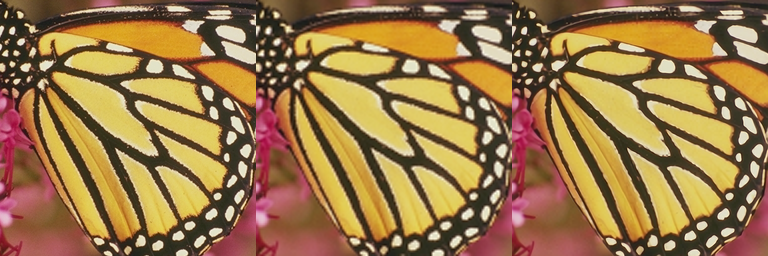
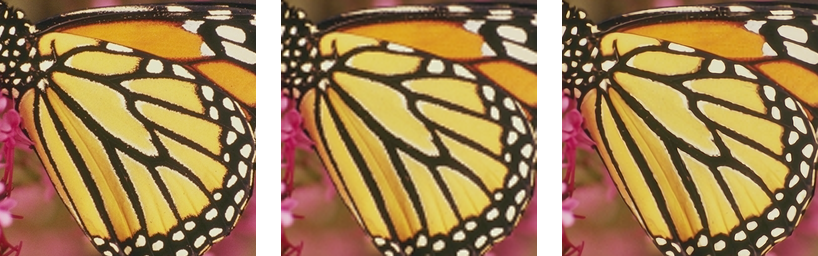
update

diff --git a/output.py b/output.py
@@ -41,13 +41,18 @@ def evaluate(model, scale=2, concat=True, summary=True):
         output = np.array(model(image)[0])
         output = output * stds + means
 
+        # White Strip
+        white = np.full(
+            shape=(output.shape[0], output.shape[0] // 10, 3), fill_value=255
+        )
+
         # Write Output
         cv2.imwrite(f"{dir_output}{image_name}", output)
 
         if concat:
             cv2.imwrite(
                 f"evaluation/Combined/{image_name}",
-                np.concatenate((input, interpolated, output), axis=1),
+                np.concatenate((input, white, interpolated, white, output), axis=1),
             )
 
 
@@ -112,4 +117,4 @@ if __name__ == "__main__":
     tf.compat.v1.keras.backend.set_session(session)
 
     model = load_model("weights/LARGE.h5", custom_objects={"loss": loss})
-    inference(model, scale=2)
+    evaluate(model, scale=2)
